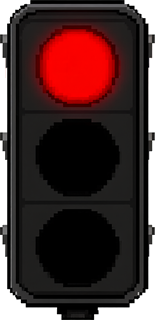
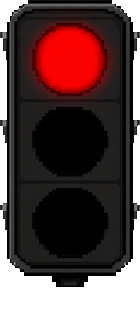
Composite the states from one base image so the housing is identical
Editing the base image with Qwen-Image 2.1 produced a different housing each
time (up to 45 px of width difference, tabs in different places), which was
visible as a jump whenever the lamp changed state. Now only the red image is
used as the housing; every other state is that same image with a bulb swapped
in, so the housing is pixel-identical across all five.

Bulbs come from the generated images: the dark bulb from the base's own middle
slot, the yellow and green ones from their respective sources. The red glow
around the top bulb is removed in two passes -- everything within 118 px of the
centre becomes housing colour, and the outer halo is caught by colour
(r-g>10, since housing is r-g=5) out to 220 px, which stays clear of the middle
bulb 238 px away.

Offline is no longer an X-marked sprite; it is the idle image plus a red 离线
label rendered at 20 px and nearest-neighbour scaled 5x so it matches the pixel
art. Exported at 140x320 with a shared crop box so the states stay aligned, and
the alpha is eroded 1 px to remove the white antialiasing fringe the flood fill
alone leaves behind.

Changed region(s): [[0.0, 0.0, 1.0, 1.0], [0.2286, 0.0625, 0.7714, 0.1875]]

diff --git a/tools/make-states.py b/tools/make-states.py
@@ -1,0 +1,169 @@
+#!/usr/bin/env python3
+"""以「红灯图」为唯一基准，合成其余状态。
+
+为什么要这样做
+--------------
+Qwen-Image 每生成一张就会把灯罩重新设计一遍（宽度差 45px、侧边凸起不同），
+五个状态放在一起切换时会明显跳动。所以只保留一张图作为**唯一的灯罩来源**，
+其余状态都是在这张图上替换灯珠得到的 —— 灯罩像素级完全一致。
+
+    attention  红图原样（顶部红灯）
+    working    顶灯→暗，中灯→黄（黄灯珠从黄图裁下来）
+    done       顶灯→暗，底灯→绿（绿灯珠从绿图裁下来）
+    idle       顶灯→暗
+    offline    idle + 红色「离线」二字
+
+去光晕
+------
+红图的顶灯有一圈红色光晕，换掉灯泡后必须清掉，否则会留一圈红边。
+灯罩色是 (36,31,30)（r-g=5），所以任何 r-g>10 且 r<130 的暗红都算光晕，
+在半径 220 内替换成灯罩色。半径 220 小于中灯距离 238，不会碰到中灯。
+
+用法：python3 tools/make-states.py
+"""
+
+from __future__ import annotations
+
+import os
+
+import numpy as np
+from PIL import Image, ImageDraw, ImageFont
+
+RAW = "assets/raw"
+OUT = "assets/composite"
+
+RED_IMG = os.path.join(RAW, "02_red_try.png")
+YEL_IMG = os.path.join(RAW, "03_yellow.png")
+GRN_IMG = os.path.join(RAW, "03_green.png")
+
+# 灯珠中心（用亮度/饱和度检测出来的实测值）
+RED_TOP = (510, 259)
+RED_MID = (510, 497)
+RED_BOT = (511, 727)
+YEL_MID = (511, 497)
+GRN_BOT = (512, 727)
+BULB_R = 99
+HOUSING = (36, 31, 30)
+GLOW_R = 220
+
+TEXT = "离线"
+TEXT_COLOR = (226, 48, 40)
+FONT_PATH = "/usr/share/fonts/opentype/noto/NotoSansCJK-Bold.ttc"
+FONT_PX = 20
+FONT_SCALE = 5
+
+
+def disc_mask(size: int, r: int) -> np.ndarray:
+    y, x = np.ogrid[:size, :size]
+    c = size / 2
+    return ((x - c) ** 2 + (y - c) ** 2) <= r * r
+
+
+def crop_disc(img: Image.Image, center, r: int) -> Image.Image:
+    cx, cy = center
+    patch = img.crop((cx - r, cy - r, cx + r, cy + r)).convert("RGBA")
+    patch.putalpha(Image.fromarray((disc_mask(2 * r, r) * 255).astype("uint8")))
+    return patch
+
+
+def paste_disc(base: Image.Image, patch: Image.Image, center) -> None:
+    cx, cy = center
+    r = patch.size[0] // 2
+    base.alpha_composite(patch, (cx - r, cy - r))
+
+
+def strip_glow(img: Image.Image, center, radius: int = GLOW_R) -> tuple:
+    """清掉顶灯的红色光晕。
+
+    分两步，因为光晕分布有两种形态：
+
+    1. **灯珠正周围**（半径 < 118）：这一圈原本是亮灯泡的边缘和它的近场光晕，
+       换灯后整块都应该变成灯罩色。直接填，不判断颜色 —— 否则灯珠边缘那圈
+       偏暗的红（比如 (53,29,29)）会留下来，在深色背景上正好是一道红弧。
+    2. **外圈光晕**（118 < 半径 < 220）：只替换偏红的像素，避免把分隔线一起填掉。
+       灯罩色是 (36,31,30)（r-g=5），所以 r-g>10 就一定是红光晕。
+
+    半径 220 小于中灯距离 238，不会碰到别的灯珠。
+    """
+    arr = np.asarray(img.convert("RGB")).astype(int).copy()
+    r, g, b = arr[:, :, 0], arr[:, :, 1], arr[:, :, 2]
+    h, w, _ = arr.shape
+    yy, xx = np.ogrid[:h, :w]
+    cx, cy = center
+    dist2 = (xx - cx) ** 2 + (yy - cy) ** 2
+
+    inner = dist2 <= 118 ** 2
+    arr[inner] = HOUSING
+
+    reddish = (r > g + 10) & (r > 20) & (r < 130)
+    outer = (dist2 > 118 ** 2) & (dist2 <= radius ** 2)
+    m = reddish & outer
+    n = int(m.sum())
+    arr[m] = HOUSING
+    return Image.fromarray(arr.astype("uint8")), n + int(inner.sum())
+
+
+def render_text_mask(text: str) -> Image.Image:
+    """小尺寸渲染再 NEAREST 放大 —— 得到块状像素字，和像素风灯罩协调。"""
+    font = ImageFont.truetype(FONT_PATH, FONT_PX)
+    tmp = Image.new("L", (240, 48), 0)
+    d = ImageDraw.Draw(tmp)
+    bb = d.textbbox((0, 0), text, font=font)
+    d.text((120 - (bb[2] - bb[0]) // 2 - bb[0],
+            24 - (bb[3] - bb[1]) // 2 - bb[1]), text, font=font, fill=255)
+    a = np.asarray(tmp)
+    ys, xs = np.nonzero(a > 40)
+    glyph = tmp.crop((xs.min(), ys.min(), xs.max() + 1, ys.max() + 1))
+    return glyph.resize((glyph.size[0] * FONT_SCALE, glyph.size[1] * FONT_SCALE),
+                        Image.NEAREST)
+
+
+def main() -> None:
+    os.makedirs(OUT, exist_ok=True)
+    red = Image.open(RED_IMG).convert("RGB")
+    yel = Image.open(YEL_IMG).convert("RGB")
+    grn = Image.open(GRN_IMG).convert("RGB")
+
+    dark = crop_disc(red, RED_MID, BULB_R)
+    yellow = crop_disc(yel, YEL_MID, BULB_R)
+    green = crop_disc(grn, GRN_BOT, BULB_R)
+
+    def build(top_dark=False, mid=None, bot=None) -> Image.Image:
+        base = red.convert("RGBA")
+        if top_dark:
+            flat, _ = strip_glow(base.convert("RGB"), RED_TOP)
+            base = flat.convert("RGBA")
+            paste_disc(base, dark, RED_TOP)
+        if mid == "yellow":
+            paste_disc(base, yellow, RED_MID)
+        if bot == "green":
+            paste_disc(base, green, RED_BOT)
+        return base
+
+    states = {
+        "attention": red.convert("RGBA"),
+        "working": build(top_dark=True, mid="yellow"),
+        "done": build(top_dark=True, bot="green"),
+        "idle": build(top_dark=True),
+    }
+
+    # 离线 = 全灭 + 「离线」
+    idle = states["idle"]
+    arr = np.asarray(idle.convert("RGB")).astype(int)
+    ys, xs = np.nonzero(arr.sum(axis=2) < 720)
+    hx0, hx1, hy1 = int(xs.min()), int(xs.max()), int(ys.max())
+    glyph = render_text_mask(TEXT)
+    offline = idle.copy()
+    gx = (hx0 + hx1) // 2 - glyph.size[0] // 2
+    gy = hy1 + 20
+    offline.paste(Image.new("RGB", glyph.size, TEXT_COLOR), (gx, gy), glyph)
+    states["offline"] = offline
+
+    for name, im in states.items():
+        path = os.path.join(OUT, f"{name}_raw.png")
+        im.convert("RGB").save(path)
+        print(f"  {name:<10} -> {path}")
+
+
+if __name__ == "__main__":
+    main()
